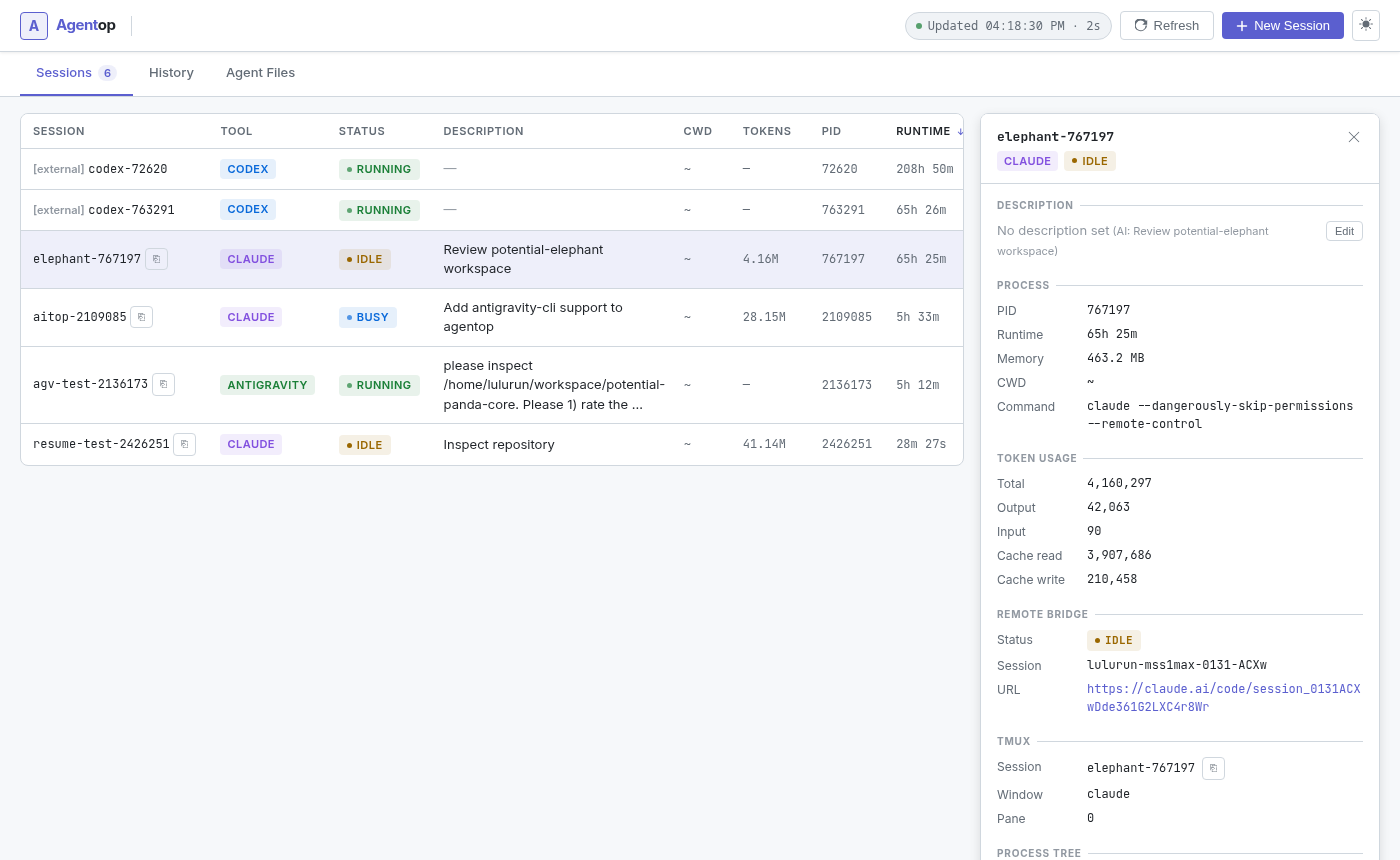
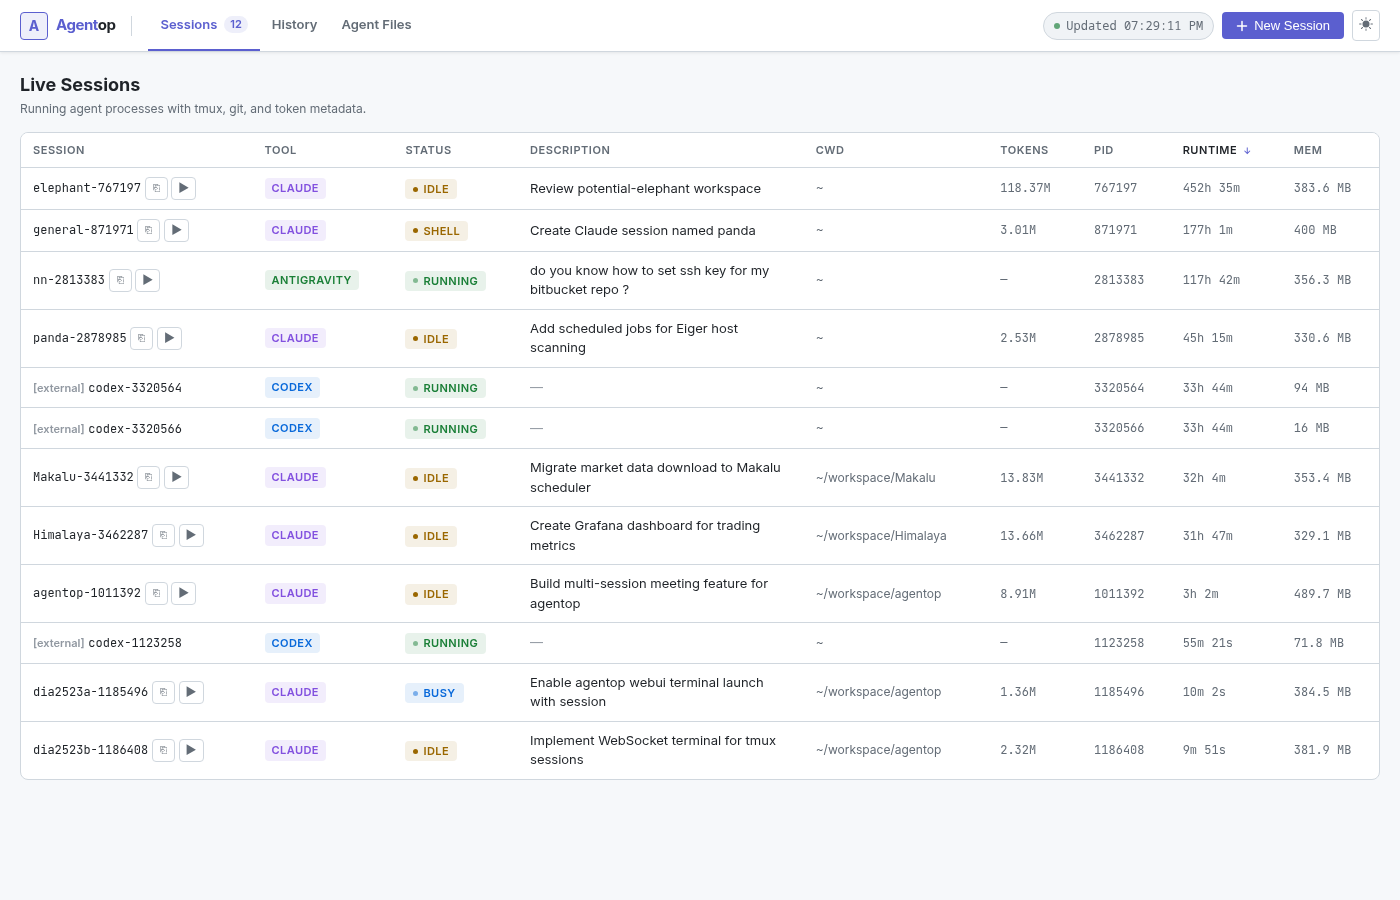
docs: update dashboard screenshot, add terminal modal screenshot

diff --git a/README.md b/README.md
@@ -4,6 +4,8 @@ A local dashboard for monitoring running AI agent sessions — Claude Code, Code
 
 ![agentop dashboard](https://raw.githubusercontent.com/lulurun/agentop/main/docs/screenshot.png)
 
+![in-browser terminal](https://raw.githubusercontent.com/lulurun/agentop/main/docs/screenshot-terminal.png)
+
 ## What it does
 
 - Detects running Claude Code, Codex, Gemini CLI, and Antigravity processes
